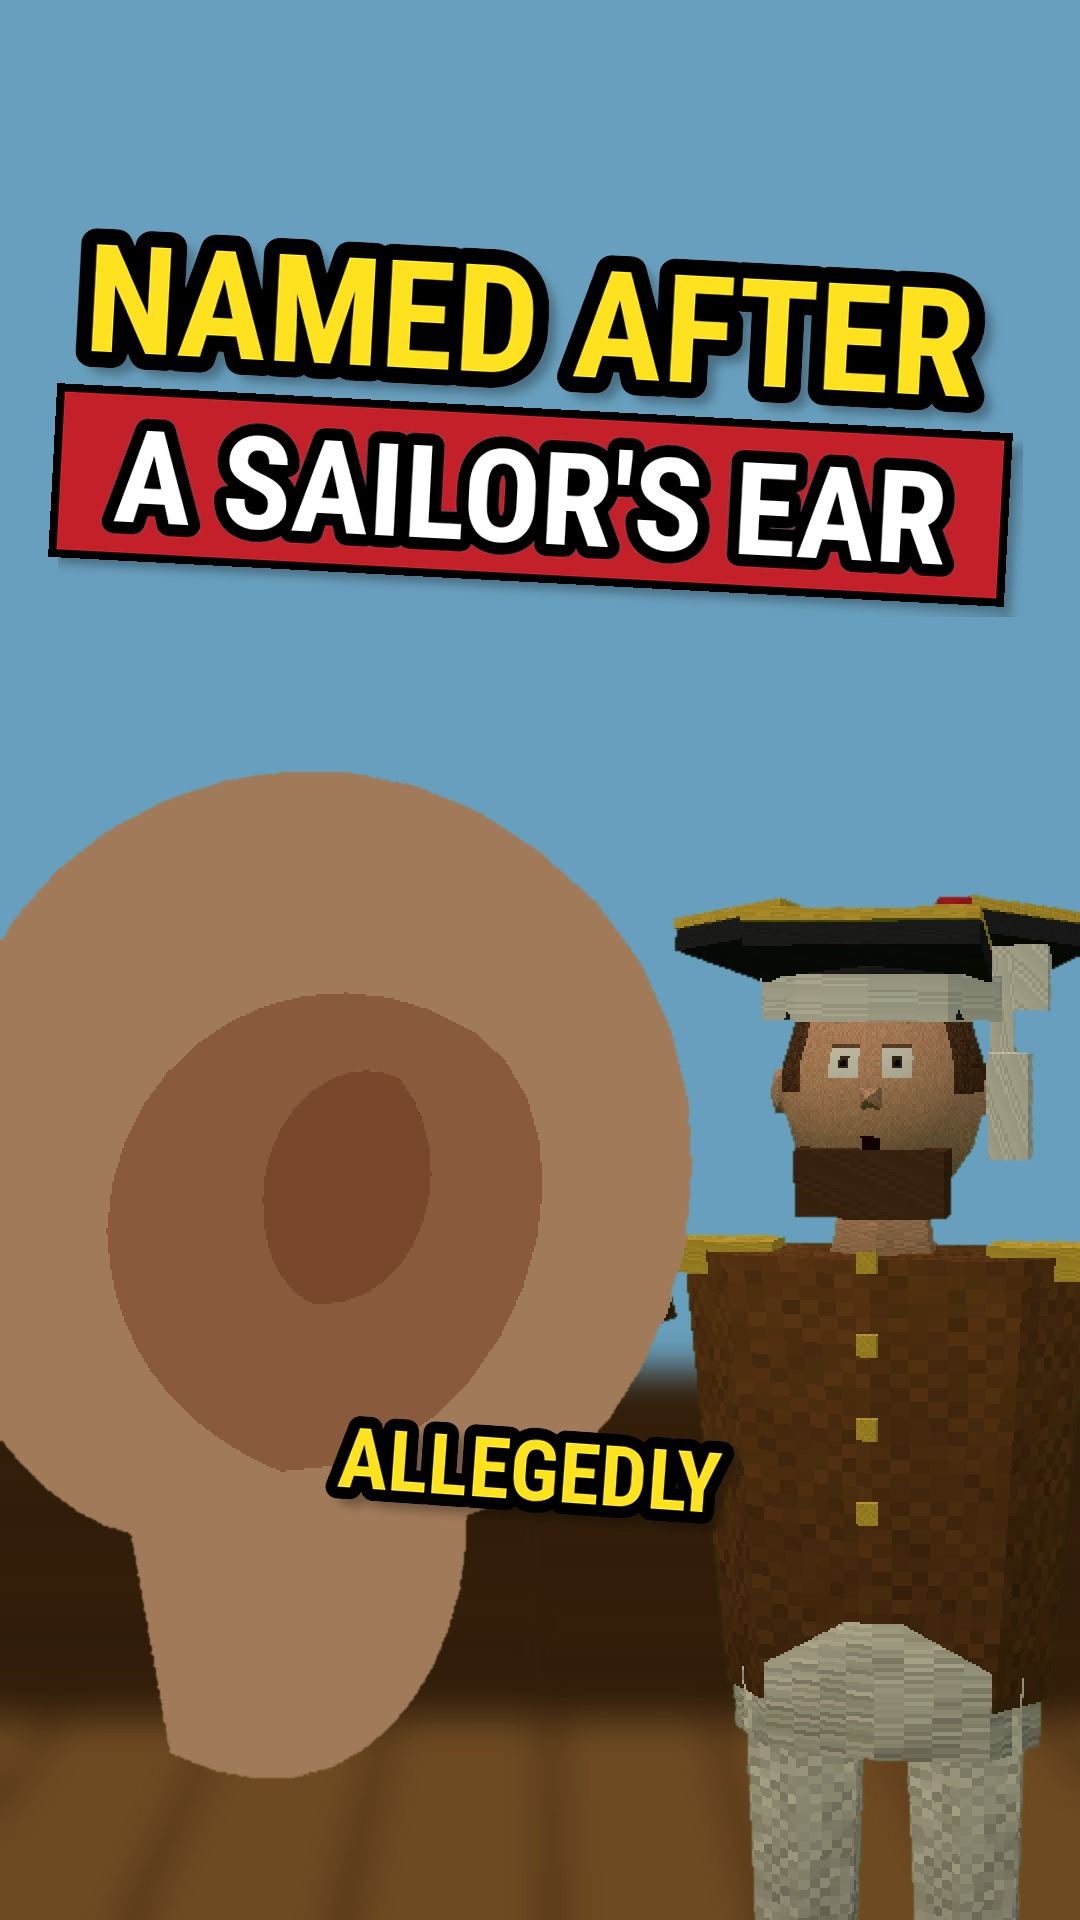
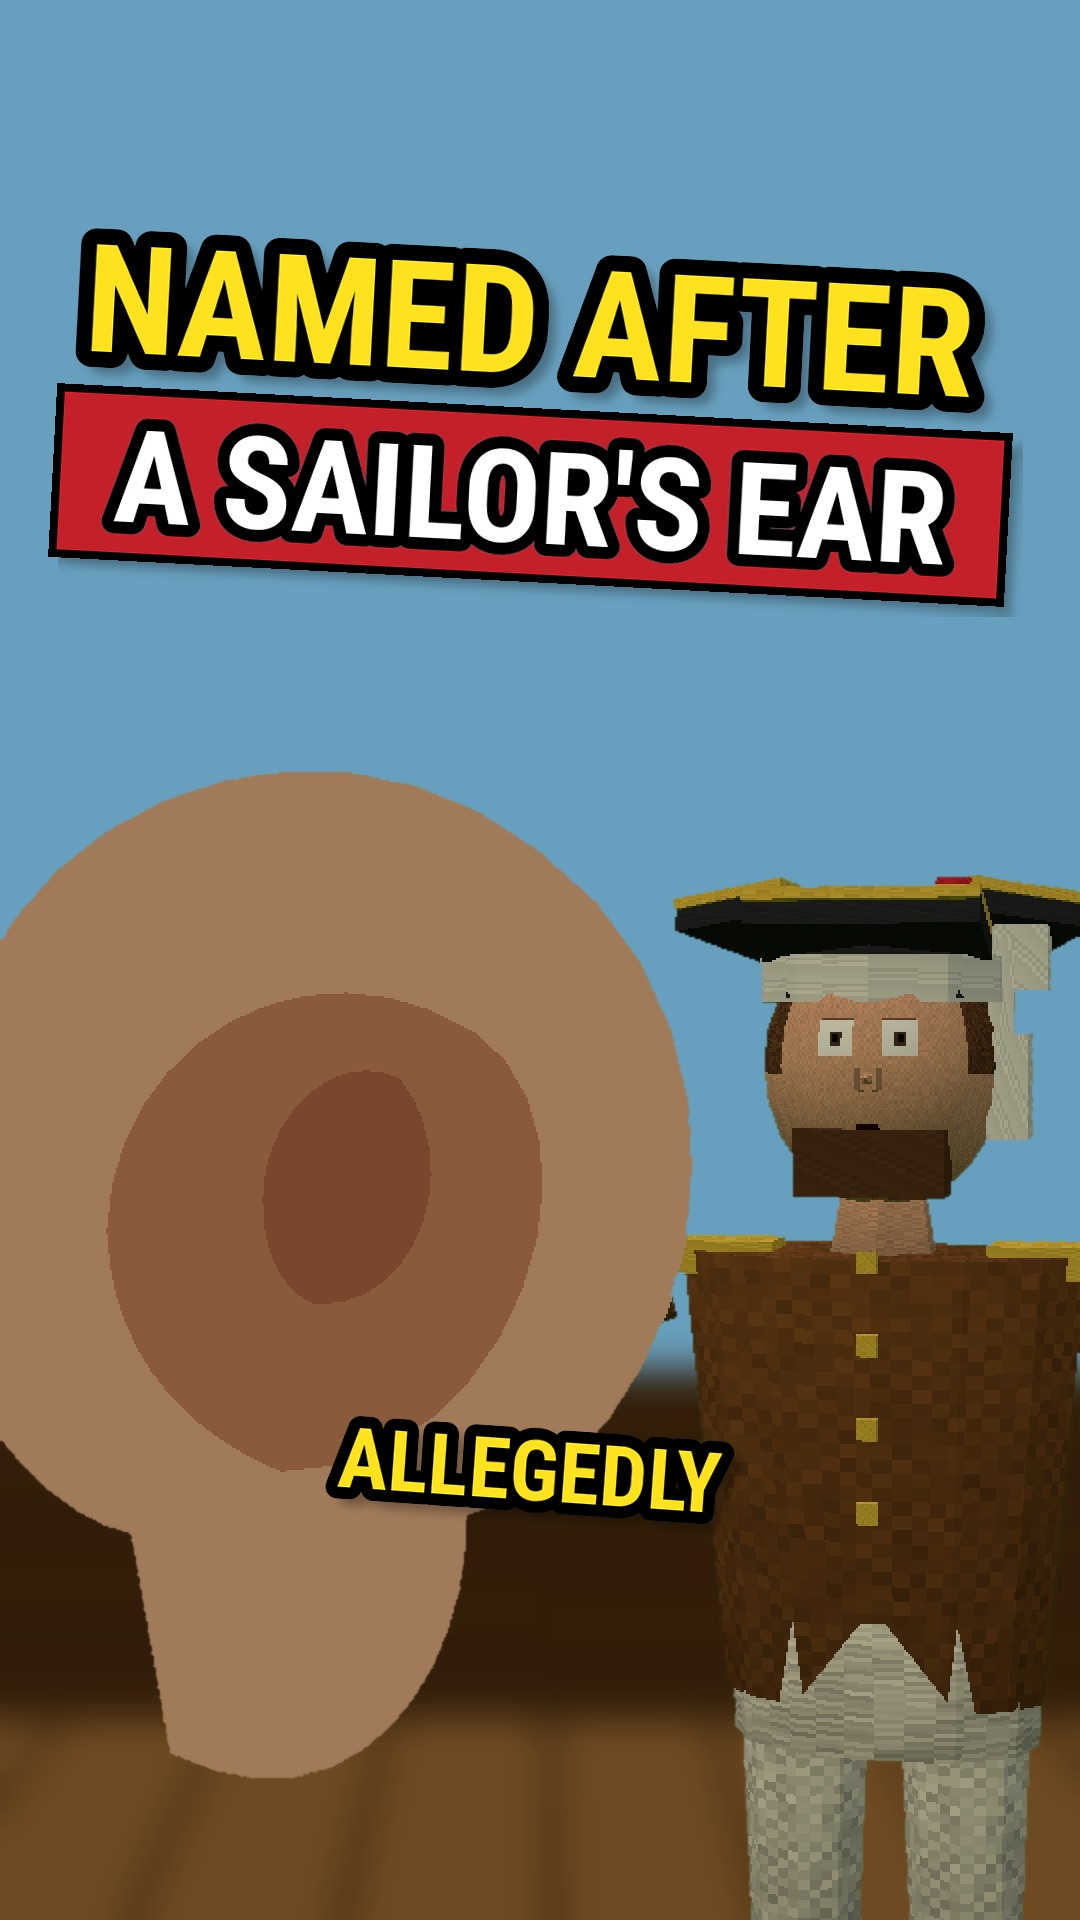
Standard clip v3: rounder characters (bigger head, fists, round shoes), 3.23 words/s, cover re-rendered; both gates pass
Claude-Session: https://claude.ai/code/session_01EUpLfkeMS9zWWcQnBujwnA

diff --git a/studio/lowpoly/chars.js b/studio/lowpoly/chars.js
@@ -45,20 +45,20 @@ function limb(rt,rb,h,seg,tex,y){const g=new THREE.CylinderGeometry(rt,rb,h,seg)
 function person(o){const g=new THREE.Group();const skin=o.skin||'#e8b894';const hair=o.hair||'#4a3020';const P={g,skin,hair};
  const coatT=fab(o.coat,{seed:1,draw:o.torsoDraw?(x,w,h)=>o.torsoDraw(x,w,h):null,w:64,h:32});const sleeveT=fab(o.sleeve||o.coat,{seed:2});const pantT=fab(o.pants,{seed:3,noise:.2});const skinT=fab(skin,{seed:4,noise:.08});
  // torso (front at u=.5)
- const tg=new THREE.CylinderGeometry(.27,.21,.66,8);tg.rotateY(Math.PI);const torso=new THREE.Mesh(tg,new THREE.MeshLambertMaterial({map:coatT,flatShading:true}));torso.scale.set(1.15,1,.66);torso.position.y=1.18;g.add(torso);
- const hips=new THREE.Mesh(new THREE.CylinderGeometry(.21,.2,.2,8),new THREE.MeshLambertMaterial({map:pantT,flatShading:true}));hips.scale.set(1.15,1,.7);hips.position.y=.88;g.add(hips);
+ const tg=new THREE.CylinderGeometry(.27,.21,.66,14);tg.rotateY(Math.PI);const torso=new THREE.Mesh(tg,new THREE.MeshLambertMaterial({map:coatT,flatShading:true}));torso.scale.set(1.15,1,.66);torso.position.y=1.18;g.add(torso);
+ const hips=new THREE.Mesh(new THREE.CylinderGeometry(.21,.2,.2,12),new THREE.MeshLambertMaterial({map:pantT,flatShading:true}));hips.scale.set(1.15,1,.7);hips.position.y=.88;g.add(hips);
  if(o.belt){const b=new THREE.Mesh(new THREE.CylinderGeometry(.216,.216,.06,8),M(0x2a1a10));b.scale.set(1.15,1,.7);b.position.y=.93;g.add(b)}
  g.add(limb(.07,.09,.12,6,skinT,1.55));
  // legs
- P.legs=[-.12,.12].map(x=>{const p=new THREE.Group();p.position.set(x,.93,0);g.add(p);p.add(limb(.105,.085,.45,6,pantT,-.22));p.add(limb(.08,.058,.42,6,pantT,-.66));const sh=box(.13,.09,.3,M(0x1c1c20),0,-.9,.05,p);return p});
+ P.legs=[-.12,.12].map(x=>{const p=new THREE.Group();p.position.set(x,.93,0);g.add(p);p.add(limb(.105,.085,.45,9,pantT,-.22));p.add(limb(.08,.058,.42,9,pantT,-.66));const sh=new THREE.Mesh(new THREE.SphereGeometry(.1,9,7),M(0x1c1c20));sh.scale.set(1.0,.62,1.9);sh.position.set(0,-.93,.07);p.add(sh);return p});
  // arms
- P.arms=[-.34,.34].map(x=>{const p=new THREE.Group();p.position.set(x,1.47,0);g.add(p);const sl=o.shortSleeve?skinT:sleeveT;p.add(limb(.075,.065,.34,6,sleeveT,-.17));const f=limb(.06,.045,.32,6,o.shortSleeve?skinT:sleeveT,-.5);p.add(f);const hd=new THREE.Mesh(new THREE.IcosahedronGeometry(.055,0),new THREE.MeshLambertMaterial({map:skinT,flatShading:true}));hd.scale.set(1,1.3,.8);hd.position.y=-.7;p.add(hd);return p});
+ P.arms=[-.34,.34].map(x=>{const p=new THREE.Group();p.position.set(x,1.47,0);g.add(p);const sl=o.shortSleeve?skinT:sleeveT;p.add(limb(.075,.065,.34,9,sleeveT,-.17));const f=limb(.06,.045,.32,9,o.shortSleeve?skinT:sleeveT,-.5);p.add(f);const hd=new THREE.Mesh(new THREE.IcosahedronGeometry(.075,1),new THREE.MeshLambertMaterial({map:skinT,flatShading:true}));hd.scale.set(1.05,1.2,.9);hd.position.y=-.72;p.add(hd);return p});
  // head
- P.head=new THREE.Group();P.head.position.set(0,1.76,0);g.add(P.head);
+ P.head=new THREE.Group();P.head.position.set(0,1.79,0);g.add(P.head);
  P.fm=new THREE.MeshLambertMaterial({map:faceTex('neutral',skin,hair,o),flatShading:false});
- const hg=new THREE.SphereGeometry(.17,12,9);const hm=new THREE.Mesh(hg,P.fm);hm.scale.set(.92,1.12,1.0);P.head.add(hm);
+ const hg=new THREE.SphereGeometry(.2,16,12);const hm=new THREE.Mesh(hg,P.fm);hm.scale.set(.92,1.08,1.0);P.head.add(hm);
  if(o.hairCap){const hm2=new THREE.MeshLambertMaterial({map:fab(hair,{seed:9,noise:.32,w:32,h:32}),flatShading:true});const hc=new THREE.Mesh(new THREE.SphereGeometry(.186,10,7,0,Math.PI*2,0,1.0),hm2);hc.scale.set(.97,1.14,1.08);hc.position.set(0,.012,-.014);P.head.add(hc);const bk=new THREE.Mesh(new THREE.SphereGeometry(.176,10,7,0,Math.PI*2,0,1.9),hm2);bk.scale.set(.96,1.1,1.0);bk.position.set(0,.005,-.03);P.head.add(bk);const tf=box(.16,.07,.09,hm2,.02,.205,.11,P.head);tf.rotation.set(-.35,0,.15);const tf2=box(.12,.06,.08,hm2,-.07,.19,.13,P.head);tf2.rotation.set(-.3,0,-.2)}
- const nose=cone(.032,.07,4,new THREE.MeshLambertMaterial({map:skinT,flatShading:true}),0,-.015,.175,P.head);nose.rotation.x=Math.PI/2;nose.rotation.y=Math.PI/4;
+ const nose=cone(.04,.085,5,new THREE.MeshLambertMaterial({map:skinT,flatShading:true}),0,-.015,.175,P.head);nose.rotation.x=Math.PI/2;nose.rotation.y=Math.PI/4;
  for(const sx of[-1,1]){const e=new THREE.Mesh(new THREE.IcosahedronGeometry(.04,0),new THREE.MeshLambertMaterial({map:skinT,flatShading:true}));e.scale.set(.4,1,.7);e.position.set(sx*.16,-.01,-.01);P.head.add(e)}
  const h=o.hat;const dark=M(0x16161a);
  if(h==='straw'){cyl(.3,.3,.03,10,M(0xe8c860),0,.11,0,P.head);cyl(.17,.19,.17,10,M(0xe8c860),0,.2,0,P.head);cyl(.19,.19,.04,10,M(0x9a3020),0,.15,0,P.head)}

diff --git a/studio/lowpoly/scene.html b/studio/lowpoly/scene.html
@@ -168,7 +168,7 @@ const ANIMS=[];const dlgEl=document.getElementById('dlg'),dlgName=document.getEl
 function allPeople(){return [F,OFF,KAI,POLY,SC,CAPT,...US,...BR].concat(typeof POLYF!=='undefined'?[POLYF]:[],typeof GRIF!=='undefined'?[GRIF]:[],typeof POLYV!=='undefined'?[POLYV]:[])}
 window.TAGS={on:0};window.TAG=(a,b,c)=>{window.TAGS={on:1,a,b,c}};const tagEl=document.getElementById('tag');
 window.renderAt=f=>{const t=f/30;let sh=SPEC.shots.find(s=>t>=s.t0&&t<s.t1)||SPEC.shots[SPEC.shots.length-1];const u=t-sh.t0,d=sh.t1-sh.t0,k=u/d;
- window.TAGS={on:0};window.STAMP={on:0};allPeople().forEach(p=>p.head.position.y=1.76);hideAll();SHAKE=0;FLASH=0;smoke.forEach(m=>m.visible=false);
+ window.TAGS={on:0};window.STAMP={on:0};allPeople().forEach(p=>p.head.position.y=1.79);hideAll();SHAKE=0;FLASH=0;smoke.forEach(m=>m.visible=false);
  clouds.forEach(c=>{const a=c.userData.a+t*c.userData.sp;c.position.x=Math.cos(a)*c.userData.r;c.position.z=Math.sin(a)*c.userData.r});
  waterT.offset.x=t*.04;
  SHOTS[sh.id](u,d,k);ANIMS.forEach(fn=>fn(t));if(window.TAGS.on){tagEl.style.display='block';tagEl.children[0].textContent=window.TAGS.a;tagEl.children[1].textContent=window.TAGS.b;tagEl.children[1].style.color=window.TAGS.c||'#ffe21f'}else tagEl.style.display='none';

diff --git a/studio/lowpoly/jk.py b/studio/lowpoly/jk.py
@@ -5,7 +5,7 @@ EP=dict(id='jk',title="The War Named After A Sailor's Ear",
   dict(t="This war is named after a sailor's ear.",c=["This war","is named after","a sailor's ear."],v='narr',pad=.1,shots=[('j_hook',1)]),
   dict(t="In 1731, Spanish coast guards searched the British ship Rebecca for smuggled goods. Captain Robert Jenkins later claimed they cut off his ear.",c=["In 1731,","Spanish coast guards searched","the British ship Rebecca","for smuggled goods.","Captain Robert Jenkins","later claimed","they cut off his ear."],v='narr',pad=.1,shots=[('j_ship',1)]),
   dict(t="Seven years later, British politicians showed him off in Parliament to build support for war.",c=["Seven years later,","British politicians","showed him off in Parliament","to build support for war."],v='narr',pad=.1,shots=[('j_parl',1)]),
-  dict(t="Britain went to war with Spain in 1739.",c=["Britain went to war","with Spain in 1739."],v='narr',pad=.1,shots=[('j_war',1)]),
+  dict(t="Britain went to war with Spain in 1739, and that is where the fighting began.",c=["Britain went to war","with Spain in 1739,","and that is","where the fighting began."],v='narr',pad=.1,shots=[('j_war',1)]),
   dict(t="Its biggest battle was a failed British attack on Cartagena, where the admiral also feuded with his own army commander.",c=["Its biggest battle","was a failed British attack","on Cartagena,","where the admiral","also feuded with","his own army commander."],v='narr',pad=.1,shots=[('j_cart',1)]),
   dict(t="When it ended in 1748, Britain had mostly failed to get what it wanted.",c=["When it ended in 1748,","Britain had mostly failed","to get what it wanted."],v='narr',pad=.1,shots=[('j_end',1)]),
   dict(t="Today, it is still marked every May in Savannah, Georgia.",c=["Today, it is still marked","every May","in Savannah, Georgia."],v='narr',pad=.1,shots=[('j_sav',1)]),
